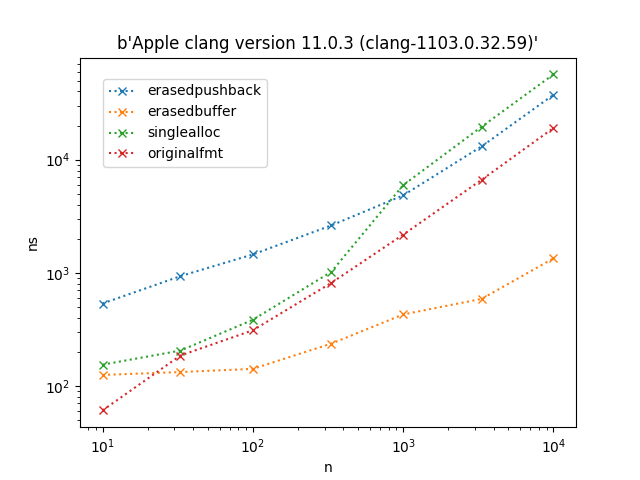
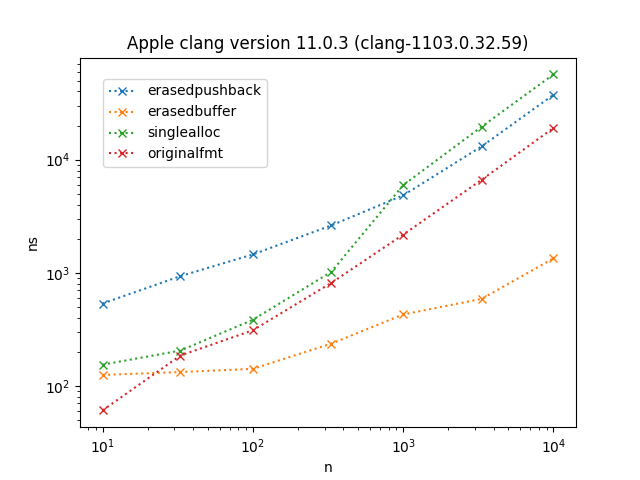
proper string decoding of subprocess output

Changed region(s): [[0.1875, 0.0625, 0.8438, 0.125]]

diff --git a/plots/stringlengthplots.py b/plots/stringlengthplots.py
@@ -5,6 +5,7 @@ import os
 import subprocess
 import matplotlib.pyplot as plt
 import shutil
+import sys
 
 BENCHMARK_GROUPS = {"default": ["erasedpushback", "erasedbuffer", "singlealloc", "originalfmt"], "bufsizes": [
     "buf32grow2", "buf512grow2", "buf1024grow2", "originalfmt"]}
@@ -88,9 +89,9 @@ if __name__ == "__main__":
             key = removeprefix(os.path.split(slbenchmark)
                                [-1], "stringlengthbenchmark_")
             results[key] = json.load(open(filename))
-        compilerversion = subprocess.check_output(
-            [compiler, "--version"]).splitlines()[0]
+        compilerversion = (subprocess.check_output(
+            [compiler, "--version"]).splitlines()[0]).decode(sys.stdout.encoding)
         plot_series(results, "fmt_longstring",
-                    title="{}".format(compilerversion), suffix=benchmarkgroup)
+                    title=compilerversion, suffix=benchmarkgroup)
         plot_series(results, "printf_longstring",
-                    title="{}".format(compilerversion), suffix=benchmarkgroup)
+                    title=compilerversion, suffix=benchmarkgroup)
